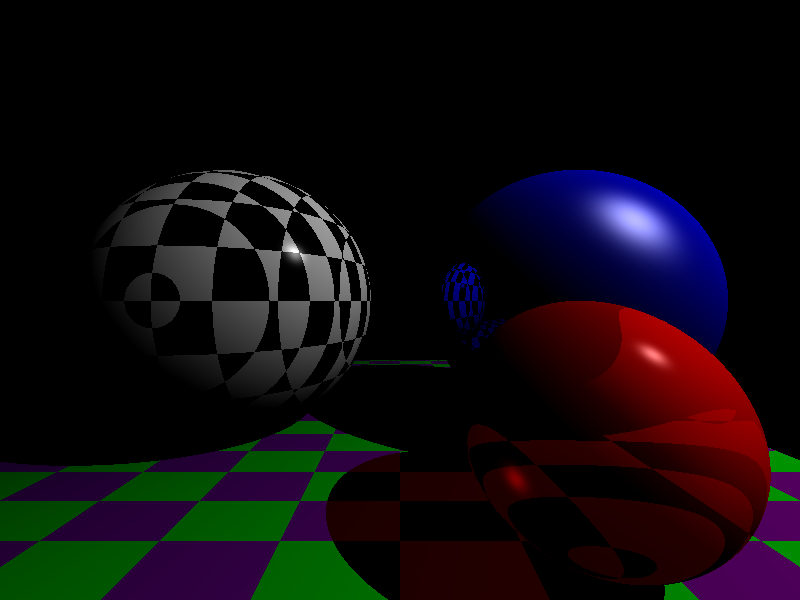
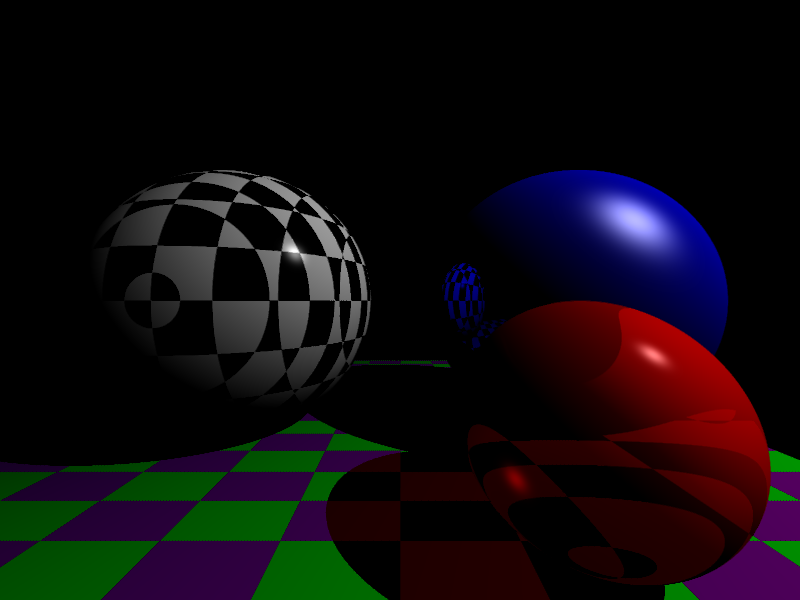
feat(scene): default the shipped scene to 3x3 anti-aliasing
Set antiAlias to 1 in src/default-scene.js so the scene loaded into the
editor supersamples 3x3 out of the box. aaThreshold stays at 0.001, so
the supersampling is adaptive: only pixels whose color differs from the
previous pixel by more than the threshold are re-sampled.

Cost on the default 800x600 scene is roughly 4x the rays (977k -> 4.08M)
and 4x the trace time, spread across the worker pool.

Mirror the value in the two user-facing scene listings -- the default
scene in docs/SCENE_FORMAT.md and the minimal example in README.md -- and
regenerate images/screenshot.png, which SCENE_FORMAT documents as being
rendered from the default scene.

The reference table entry for `antiAlias` still documents a default of 0:
that describes the renderer's fallback when the key is absent
(`json.antiAlias || 0`), which is unchanged.

Note that images/screenshot.png is no longer bit-reproducible -- the
supersample offsets are jittered with Math.random() -- so the comment in
render-screenshot.js that claimed determinism is corrected.

diff --git a/tests/render-screenshot.js b/tests/render-screenshot.js
@@ -20,8 +20,11 @@ const setup = JSON.parse(DEFAULT_SCENE.replace(/#.*$/gm, ''));
 
 const W = Number(process.env.PARTRACE_SS_W || setup.width || 800);
 const H = Number(process.env.PARTRACE_SS_H || setup.height || 600);
-// Fixed default so the image is deterministic, and 600/16 = 37.5 exercises a
-// non-integer naive split — the case that used to shear alternating bands.
+// Fixed worker count rather than hardwareConcurrency, so the partition is the
+// same on every machine and 600/16 = 37.5 exercises a non-integer naive split —
+// the case that used to shear alternating bands. The image itself is NOT
+// bit-reproducible: the default scene enables antiAlias, and the supersample
+// offsets are jittered with Math.random().
 const WORKERS = Number(process.env.PARTRACE_SS_WORKERS || setup.maxWorkers || 16);
 setup.width = W;
 setup.height = H;

diff --git a/src/default-scene.js b/src/default-scene.js
@@ -9,7 +9,7 @@ export const DEFAULT_SCENE = `# lines starting with # are comments
   "width":800,
   "height":600,
   # 0 = off, 1=3x3, 2=5x5
-  "antiAlias":0,
+  "antiAlias":1,
   # 0=disable adaptive aa
   "aaThreshold":0.001,
   "doReflect":true,

diff --git a/README.md b/README.md
@@ -48,7 +48,7 @@ The scene is plain JSON with `#`-prefixed comment lines (stripped before `JSON.p
   "maxWorkers": 0,
   "width": 800,
   "height": 600,
-  "antiAlias": 0,
+  "antiAlias": 1,
   "doReflect": true,
   "doRefract": true,
   "doShadows": true,

diff --git a/docs/SCENE_FORMAT.md b/docs/SCENE_FORMAT.md
@@ -208,7 +208,7 @@ This is the scene shipped in `src/default-scene.js` (exported as `DEFAULT_SCENE`
   "maxWorkers": 0,
   "width": 800,
   "height": 600,
-  "antiAlias": 0,
+  "antiAlias": 1,
   "aaThreshold": 0.001,
   "doReflect": true,
   "doRefract": true,